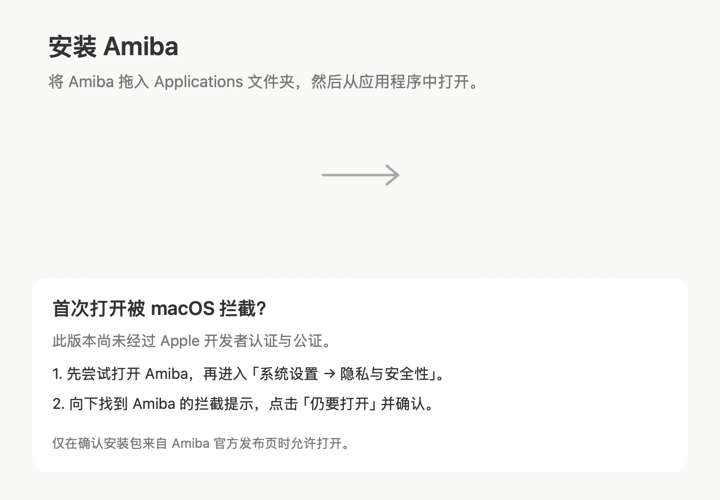
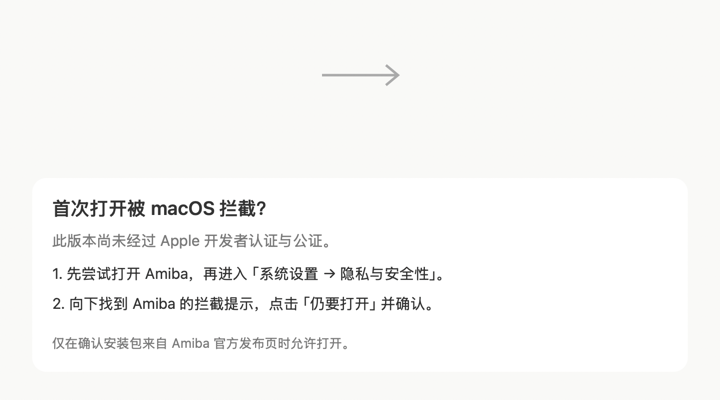
style: simplify DMG installation window [skip ci]

diff --git a/scripts/release/assets/render-dmg-background.swift b/scripts/release/assets/render-dmg-background.swift
@@ -1,7 +1,7 @@
 // Regenerate on macOS: swift scripts/release/assets/render-dmg-background.swift
 import AppKit
 
-let size = NSSize(width: 720, height: 500)
+let size = NSSize(width: 720, height: 400)
 let image = NSImage(size: size)
 image.lockFocusFlipped(true)
 NSColor(calibratedRed: 0.97, green: 0.97, blue: 0.96, alpha: 1).setFill()
@@ -12,21 +12,19 @@ func text(_ value: String, _ x: CGFloat, _ y: CGFloat, _ width: CGFloat, _ fontS
 }
 let ink = NSColor(calibratedWhite: 0.15, alpha: 1)
 let muted = NSColor(calibratedWhite: 0.4, alpha: 1)
-text("安装 Amiba", 48, 30, 620, 26, true, ink)
-text("将 Amiba 拖入 Applications 文件夹，然后从应用程序中打开。", 48, 72, 640, 16, false, muted)
-// Finder places the app and Applications icons at (205, 175) and (515, 175).
+// Finder places the app and Applications icons at (205, 75) and (515, 75).
 let arrow = NSBezierPath()
-arrow.move(to: NSPoint(x: 322, y: 175)); arrow.line(to: NSPoint(x: 398, y: 175))
-arrow.move(to: NSPoint(x: 386, y: 165)); arrow.line(to: NSPoint(x: 398, y: 175)); arrow.line(to: NSPoint(x: 386, y: 185))
+arrow.move(to: NSPoint(x: 322, y: 75)); arrow.line(to: NSPoint(x: 398, y: 75))
+arrow.move(to: NSPoint(x: 386, y: 65)); arrow.line(to: NSPoint(x: 398, y: 75)); arrow.line(to: NSPoint(x: 386, y: 85))
 arrow.lineWidth = 2.5
 NSColor(calibratedWhite: 0.6, alpha: 1).setStroke(); arrow.stroke()
 NSColor.white.setFill()
-NSBezierPath(roundedRect: NSRect(x: 32, y: 278, width: 656, height: 194), xRadius: 14, yRadius: 14).fill()
-text("首次打开被 macOS 拦截？", 52, 297, 612, 19, true, ink)
-text("此版本尚未经过 Apple 开发者认证与公证。", 52, 331, 612, 15, false, muted)
-text("1. 先尝试打开 Amiba，再进入「系统设置 → 隐私与安全性」。", 52, 364, 612, 15, false, ink)
-text("2. 向下找到 Amiba 的拦截提示，点击「仍要打开」并确认。", 52, 394, 612, 15, false, ink)
-text("仅在确认安装包来自 Amiba 官方发布页时允许打开。", 52, 435, 612, 13, false, muted)
+NSBezierPath(roundedRect: NSRect(x: 32, y: 178, width: 656, height: 194), xRadius: 14, yRadius: 14).fill()
+text("首次打开被 macOS 拦截？", 52, 197, 612, 19, true, ink)
+text("此版本尚未经过 Apple 开发者认证与公证。", 52, 231, 612, 15, false, muted)
+text("1. 先尝试打开 Amiba，再进入「系统设置 → 隐私与安全性」。", 52, 264, 612, 15, false, ink)
+text("2. 向下找到 Amiba 的拦截提示，点击「仍要打开」并确认。", 52, 294, 612, 15, false, ink)
+text("仅在确认安装包来自 Amiba 官方发布页时允许打开。", 52, 335, 612, 13, false, muted)
 image.unlockFocus()
 guard let tiff = image.tiffRepresentation, let bitmap = NSBitmapImageRep(data: tiff), let png = bitmap.representation(using: .png, properties: [:]) else { fatalError("Cannot render background") }
 let output = URL(fileURLWithPath: #filePath).deletingLastPathComponent().appendingPathComponent("dmg-unsigned.png")
@@ -35,7 +33,7 @@ print(output.path)
 // electron-builder combines these into a multi-resolution TIFF for Finder.
 let retina = output.deletingLastPathComponent().appendingPathComponent("dmg-unsigned@2x.png")
 try png.write(to: retina)
-for (url, height, width) in [(output, "500", "720"), (retina, "1000", "1440")] {
+for (url, height, width) in [(output, "400", "720"), (retina, "800", "1440")] {
     let process = Process()
     process.executableURL = URL(fileURLWithPath: "/usr/bin/sips")
     process.arguments = ["-z", height, width, url.path]

diff --git a/docs/desktop-distribution.md b/docs/desktop-distribution.md
@@ -235,7 +235,7 @@ gh workflow run desktop-release.yml --ref main -f mode=verify -f target=all -f r
 
 ### Mac 安装窗口提示
 
-未签名发布和本地测试 DMG 的安装窗口直接显示中文安装步骤及“系统设置 → 隐私与安全性 → 仍要打开”指引。提示使用普通/Retina 两套背景图片，图标位于提示上方；已签名发布不显示未认证提示。
+未签名发布和本地测试 DMG 的安装窗口直接显示首次打开被拦截时的“系统设置 → 隐私与安全性 → 仍要打开”指引。提示使用普通/Retina 两套背景图片，图标位于提示上方；已签名发布不显示未认证提示。
 
 `package-mac.mjs` 在压缩 DMG 前通过 Finder 写入原生背景引用、窗口大小和图标位置，避免 dmg-builder 25 生成的旧引用在新版 macOS 上显示白底。该步骤需要构建机具备 Finder 图形会话；自托管 Mac 构建机需登录桌面。本机已实际重新打包、只读挂载并截图确认文字完整、图标不遮挡。此项尚未在 GitHub macOS runner 上复验。
 
